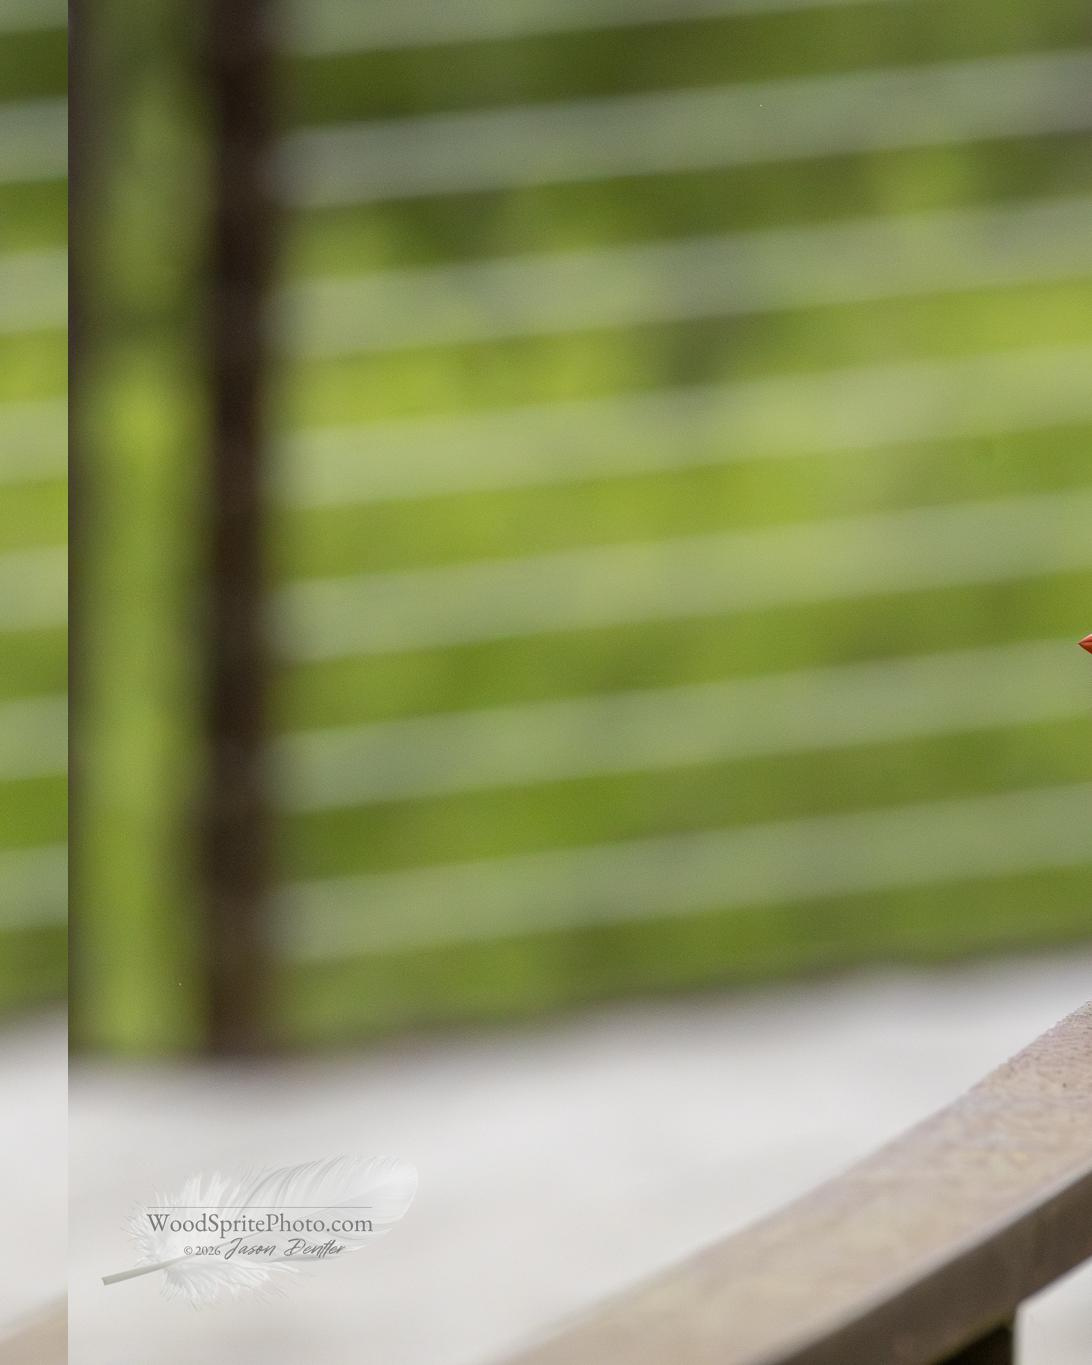
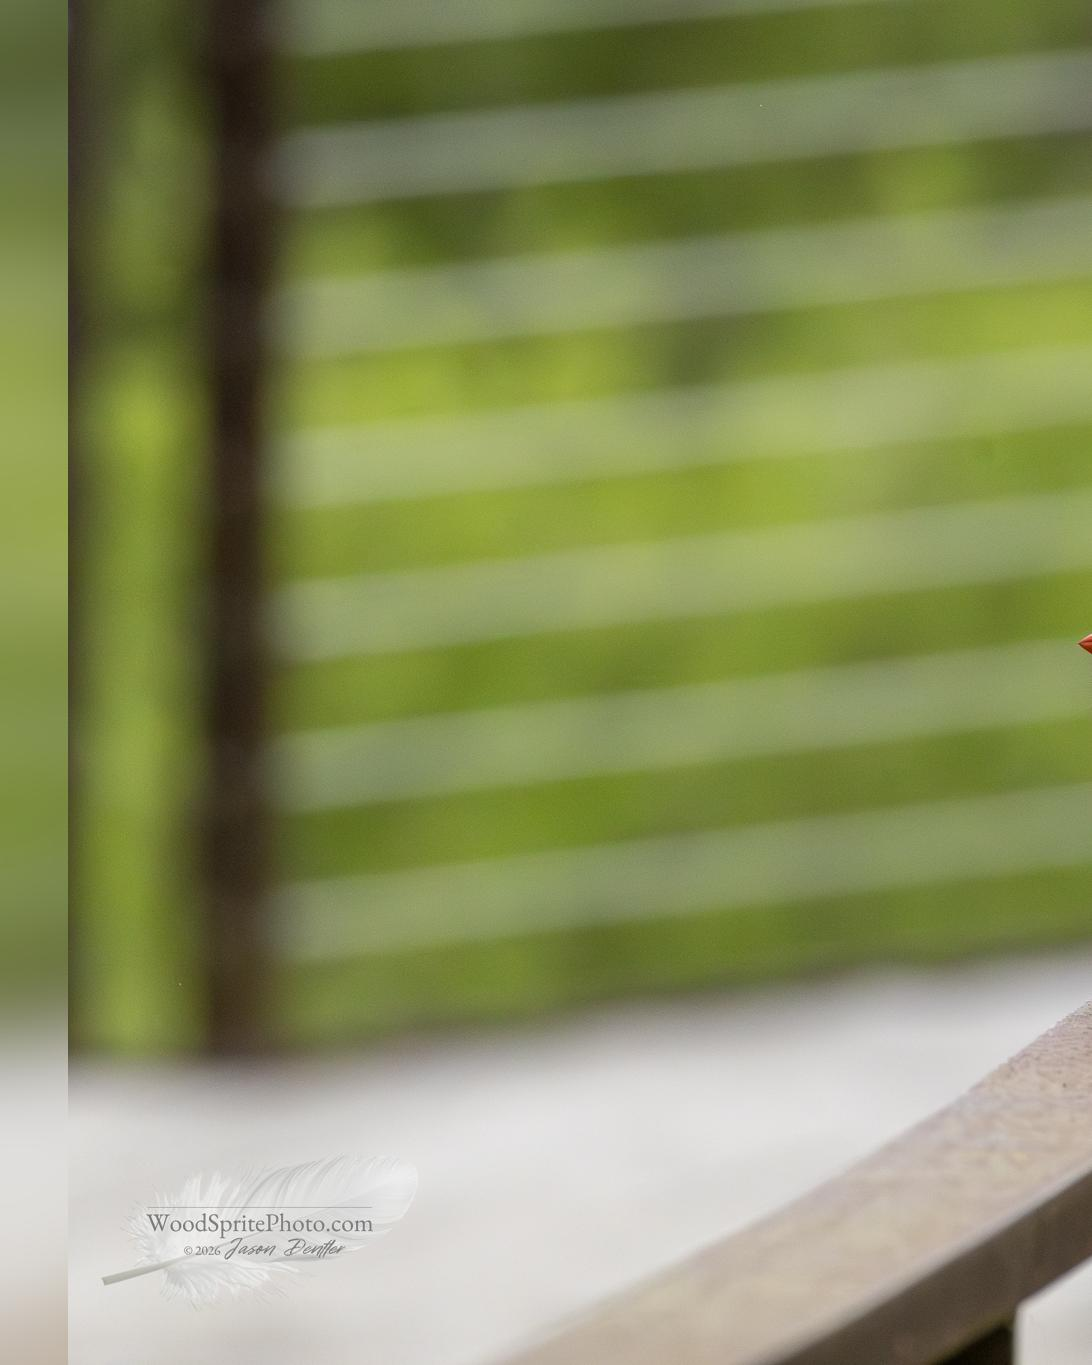
Blur split padding backgrounds
Use the shared blurred-fill helper for outer split padding so side padding
matches the blurred background behavior used by post images. Add regression
coverage for blurred split padding.

Regenerate affected Cardinal split samples and add the 20260109 sample set for
the split-padding case.

diff --git a/src/processor.py b/src/processor.py
@@ -54,6 +54,11 @@ def is_exact_4_5_portrait(width, height):
     return width < height and width * 5 == height * 4
 
 
+def make_blurred_fill_image(image, size):
+    background = ImageOps.fit(image, size, method=Image.Resampling.LANCZOS)
+    return background.filter(ImageFilter.GaussianBlur(radius=40)).convert("RGB")
+
+
 def make_4_5_portrait_image(image):
     image = image.convert("RGB")
     width, height = image.size
@@ -67,8 +72,7 @@ def make_4_5_portrait_image(image):
     else:
         canvas_size = (math.ceil(height * TARGET_PORTRAIT_RATIO), height)
 
-    background = ImageOps.fit(image, canvas_size, method=Image.Resampling.LANCZOS)
-    background = background.filter(ImageFilter.GaussianBlur(radius=40)).convert("RGB")
+    background = make_blurred_fill_image(image, canvas_size)
 
     output = background.copy()
     x = (canvas_size[0] - width) // 2
@@ -104,11 +108,7 @@ def split_landscape_image(image):
             crop_left = round(content_left - original_x)
             crop_right = round(content_right - original_x)
 
-            split_image = ImageOps.fit(
-                image,
-                (target_split_width, height),
-                method=Image.Resampling.LANCZOS,
-            )
+            split_image = make_blurred_fill_image(image, (target_split_width, height))
             if crop_right > crop_left:
                 crop = image.crop((crop_left, 0, crop_right, height))
                 paste_x = round(content_left - slice_left)

diff --git a/tests/test_processor.py b/tests/test_processor.py
@@ -5,7 +5,7 @@ import unittest
 from pathlib import Path
 from unittest.mock import patch
 
-from PIL import Image
+from PIL import Image, ImageDraw, ImageOps
 
 from src.processor import (
     classify_aspect_ratio,
@@ -93,6 +93,28 @@ class ProcessorTests(unittest.TestCase):
         splits = split_landscape_image(image)
 
         self.assertEqual([split.size for split in splits], [(800, 1000)] * 2)
+
+    def test_landscape_split_blurs_outer_side_padding(self):
+        image = Image.new("RGB", (1500, 1000), "black")
+        draw = ImageDraw.Draw(image)
+        draw.rectangle((365, 0, 385, 999), fill="white")
+        draw.rectangle((1115, 0, 1135, 999), fill="white")
+
+        splits = split_landscape_image(image)
+        unblurred_background = ImageOps.fit(
+            image,
+            (800, 1000),
+            method=Image.Resampling.LANCZOS,
+        )
+
+        self.assertNotEqual(
+            splits[0].getpixel((25, 500)),
+            unblurred_background.getpixel((25, 500)),
+        )
+        self.assertNotEqual(
+            splits[1].getpixel((775, 500)),
+            unblurred_background.getpixel((775, 500)),
+        )
 
     @patch("src.processor.exiftool.ExifToolHelper", FakeExifToolHelper)
     def test_process_photo_copies_exact_4_5_portrait_post_image(self):
